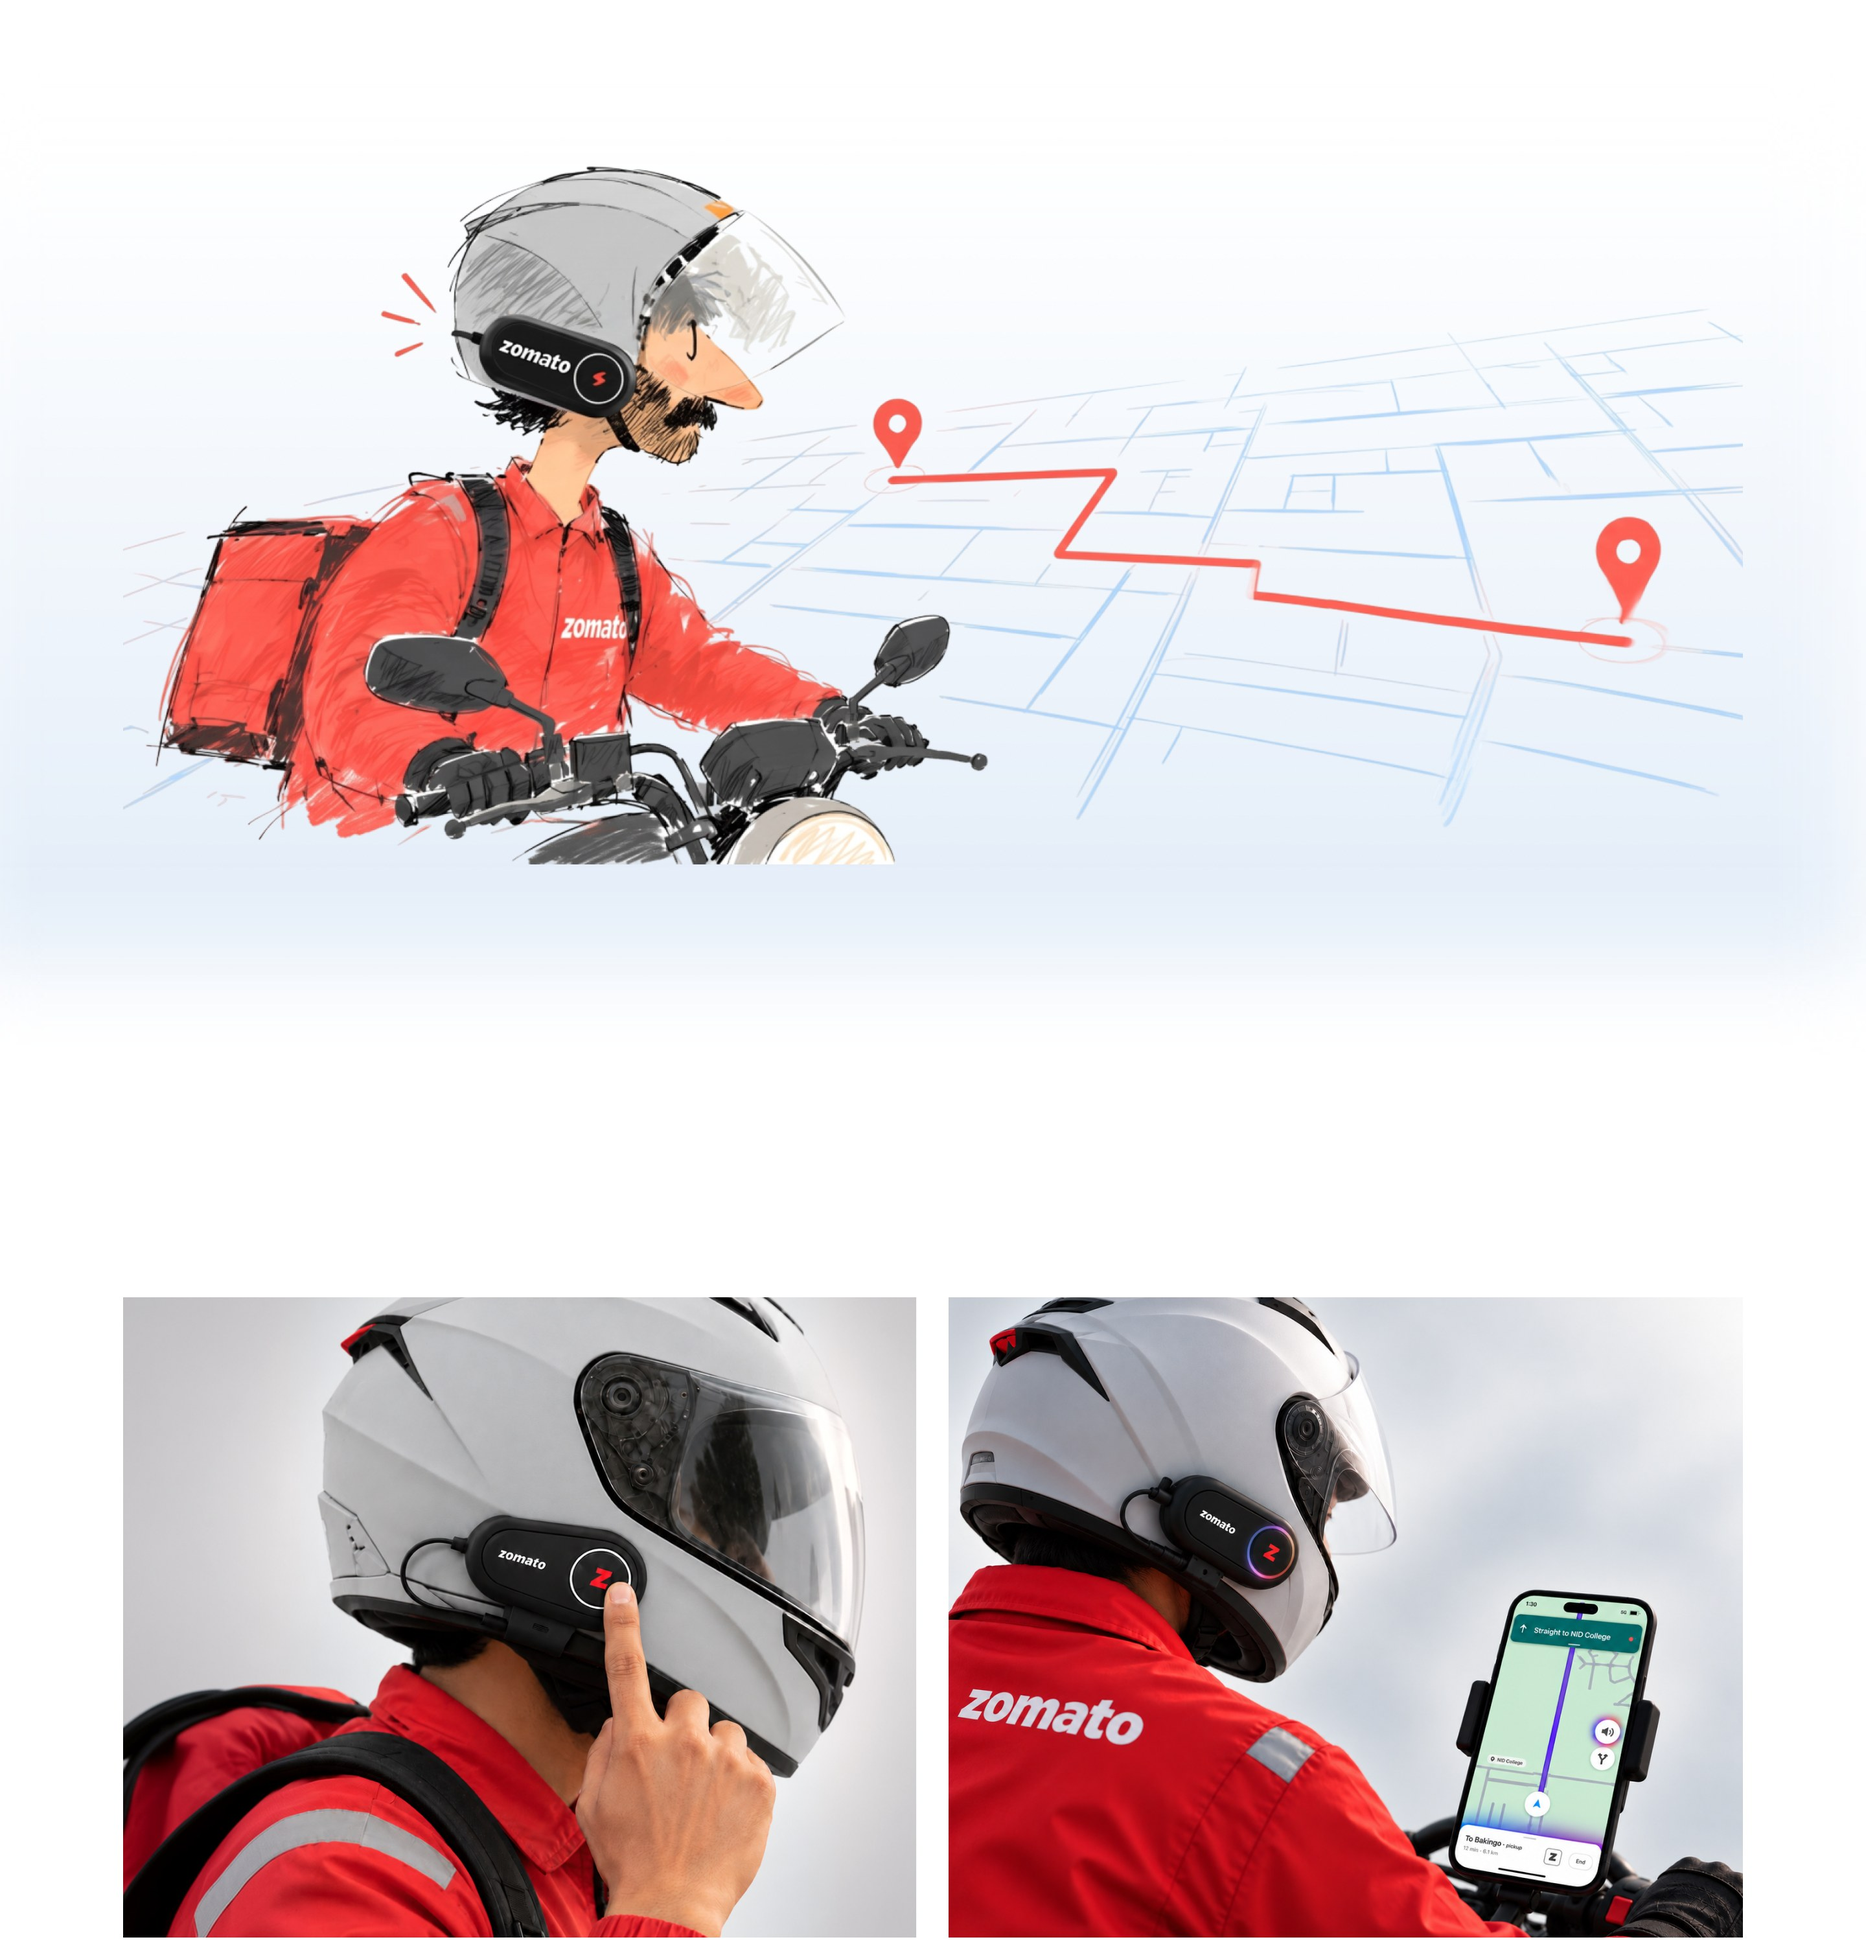
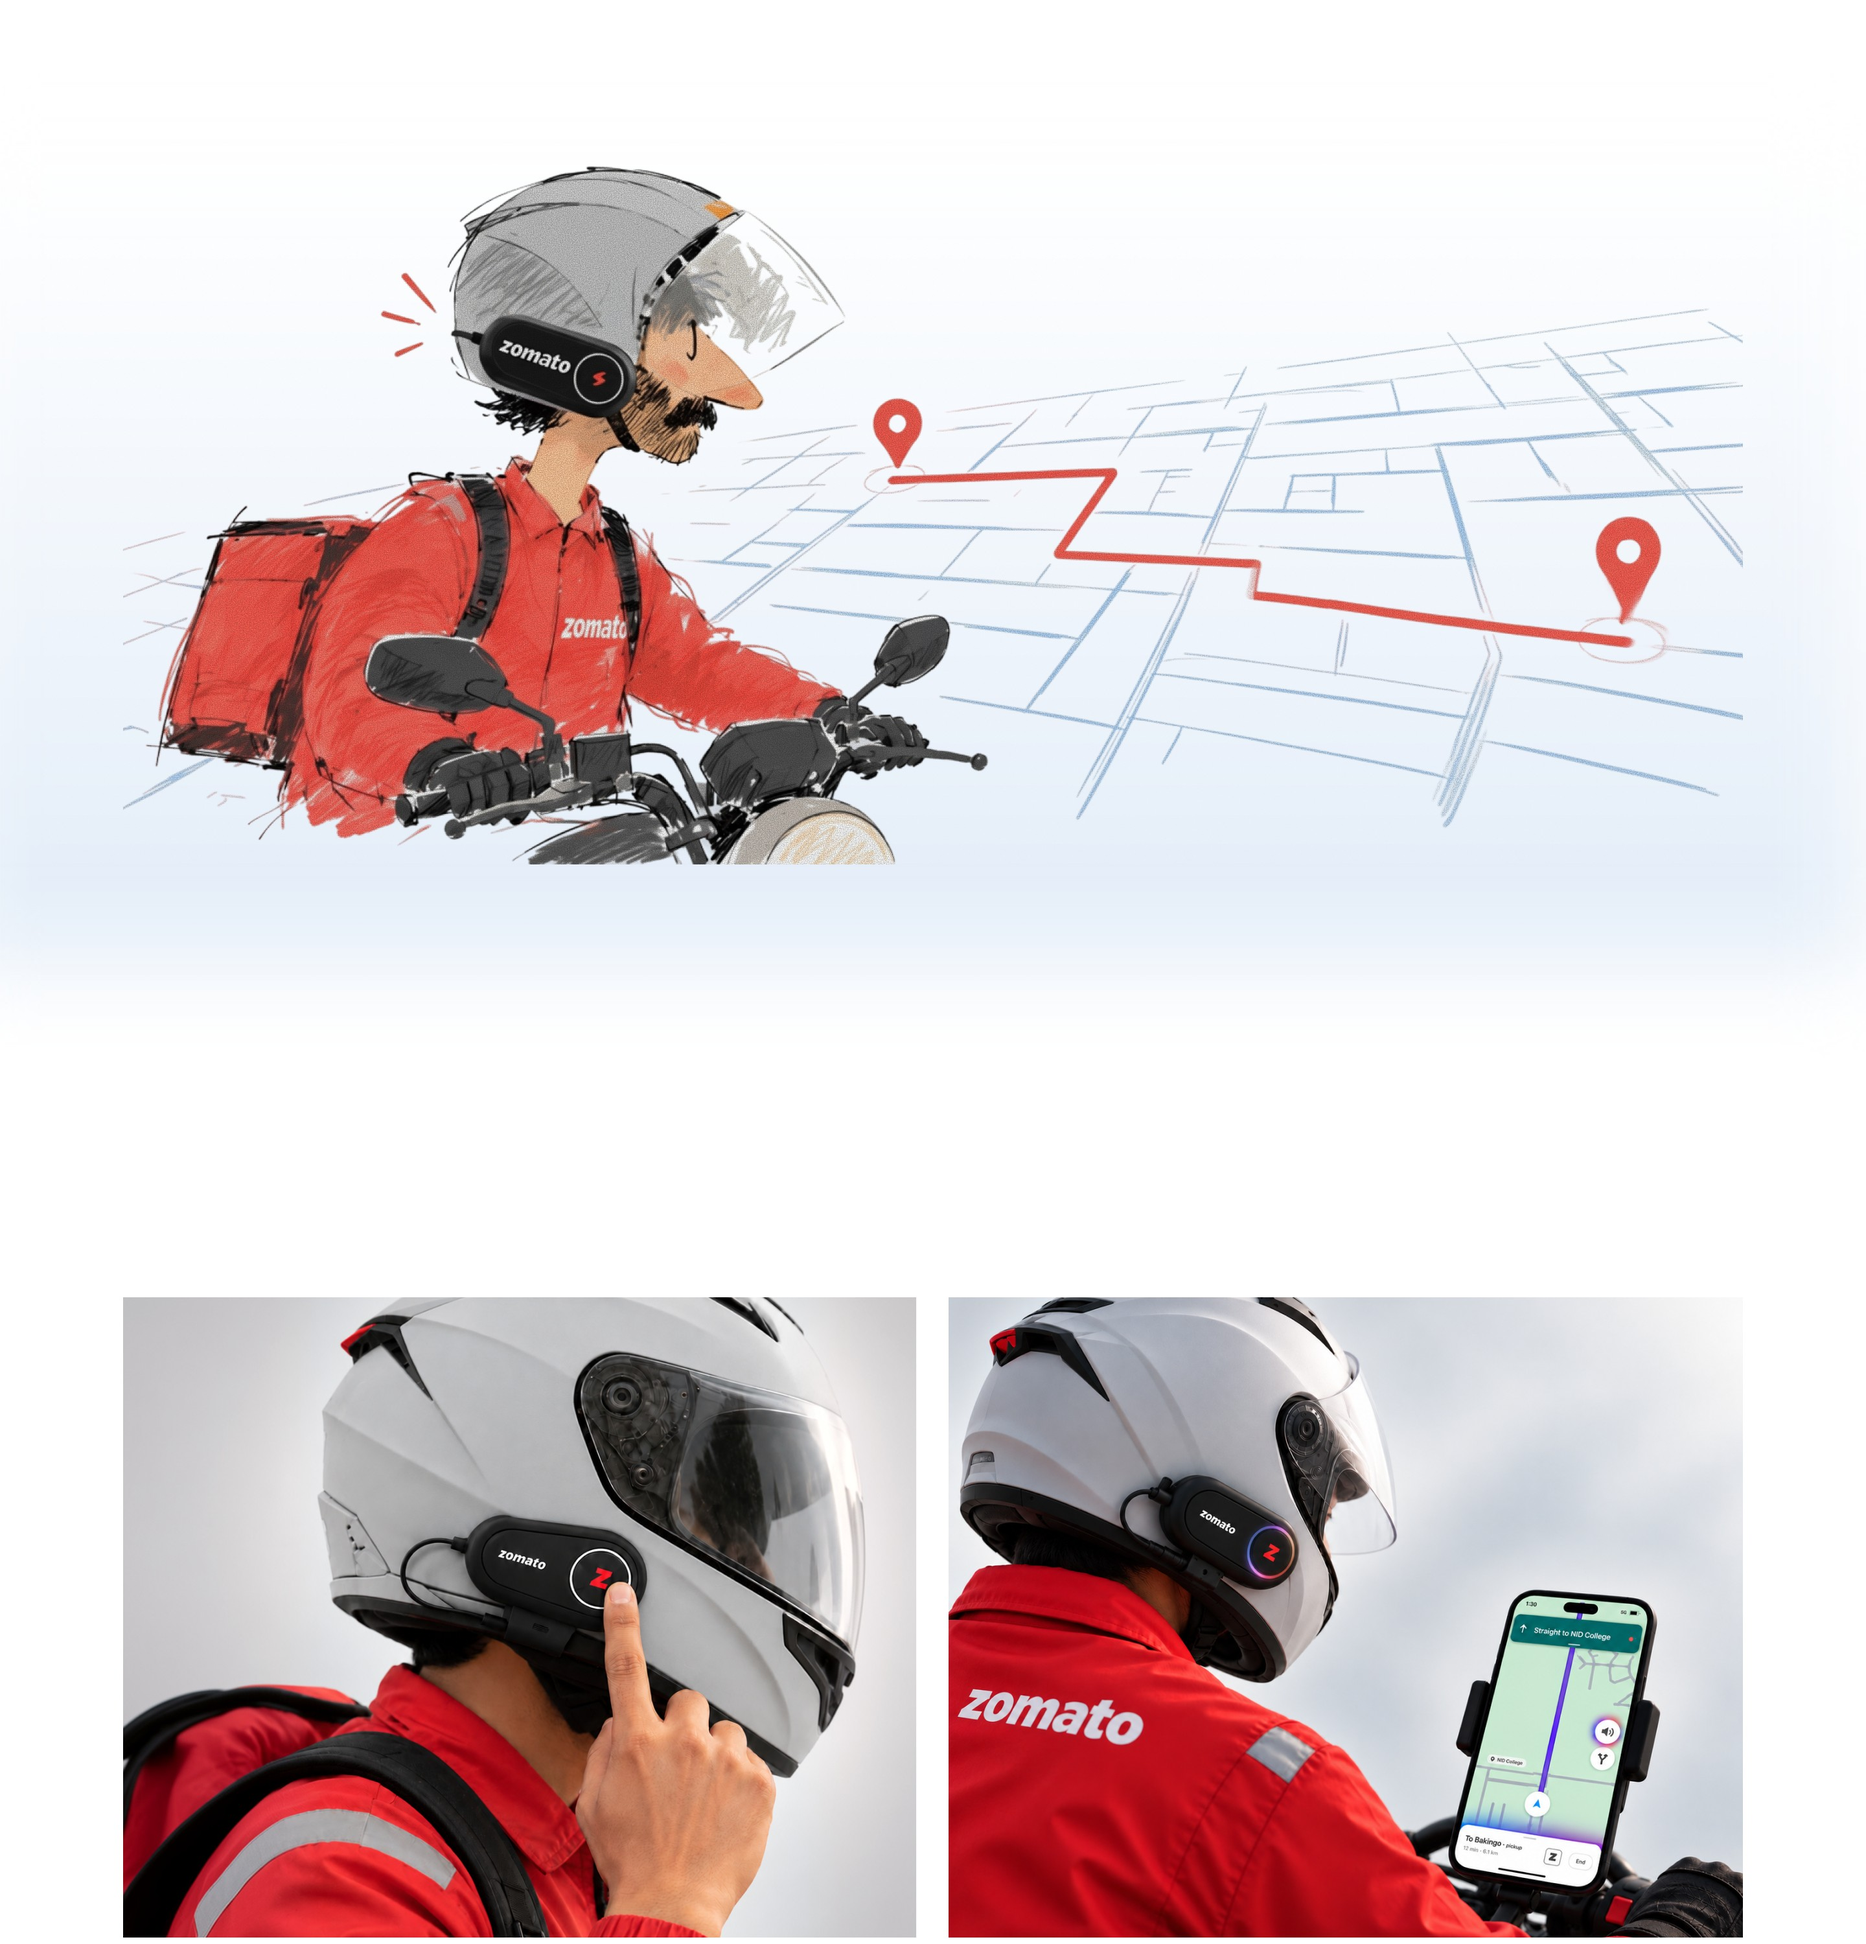
KAI: hero illustration with noise grain (Figma noise size 0.5)

diff --git a/kai.html b/kai.html
@@ -87,7 +87,7 @@ video{position:absolute;display:block;object-fit:cover;background:#fff}
 
 <div class="cv" id="cv">
 <div class="canvas" id="canvas">
-<img class="tile" src="images/kai-figma/t0.jpg?v=1029" style="top:0px;height:1500px" alt="">
+<img class="tile" src="images/kai-figma/t0.jpg?v=1029c" style="top:0px;height:1500px" alt="">
 <img class="tile" src="images/kai-figma/t1.jpg?v=1029" style="top:1500px;height:1500px" alt="">
 <img class="tile" src="images/kai-figma/t2.jpg?v=1029" style="top:3000px;height:1500px" alt="" loading="lazy">
 <img class="tile" src="images/kai-figma/t3.jpg?v=1029" style="top:4500px;height:1500px" alt="" loading="lazy">
